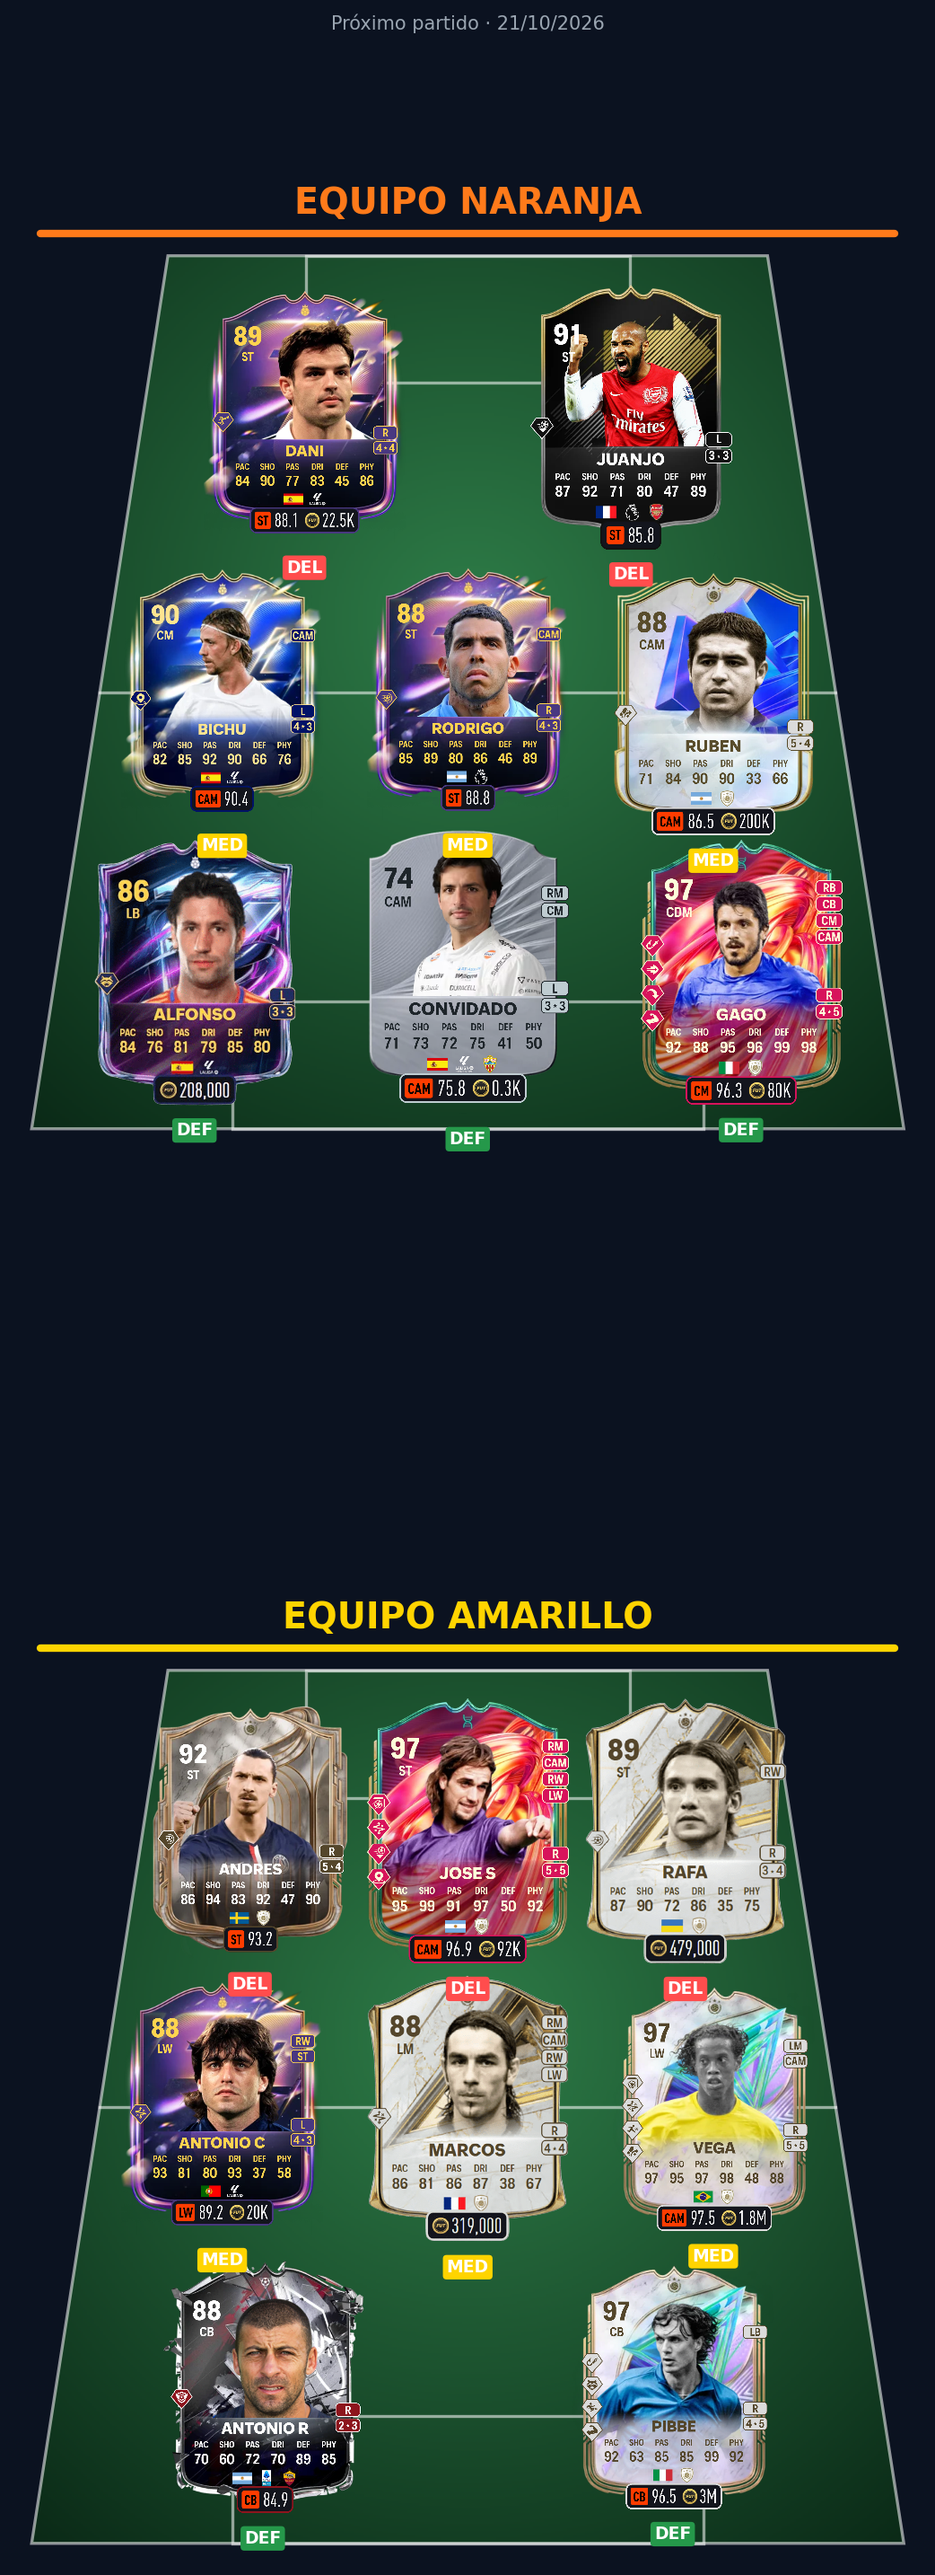
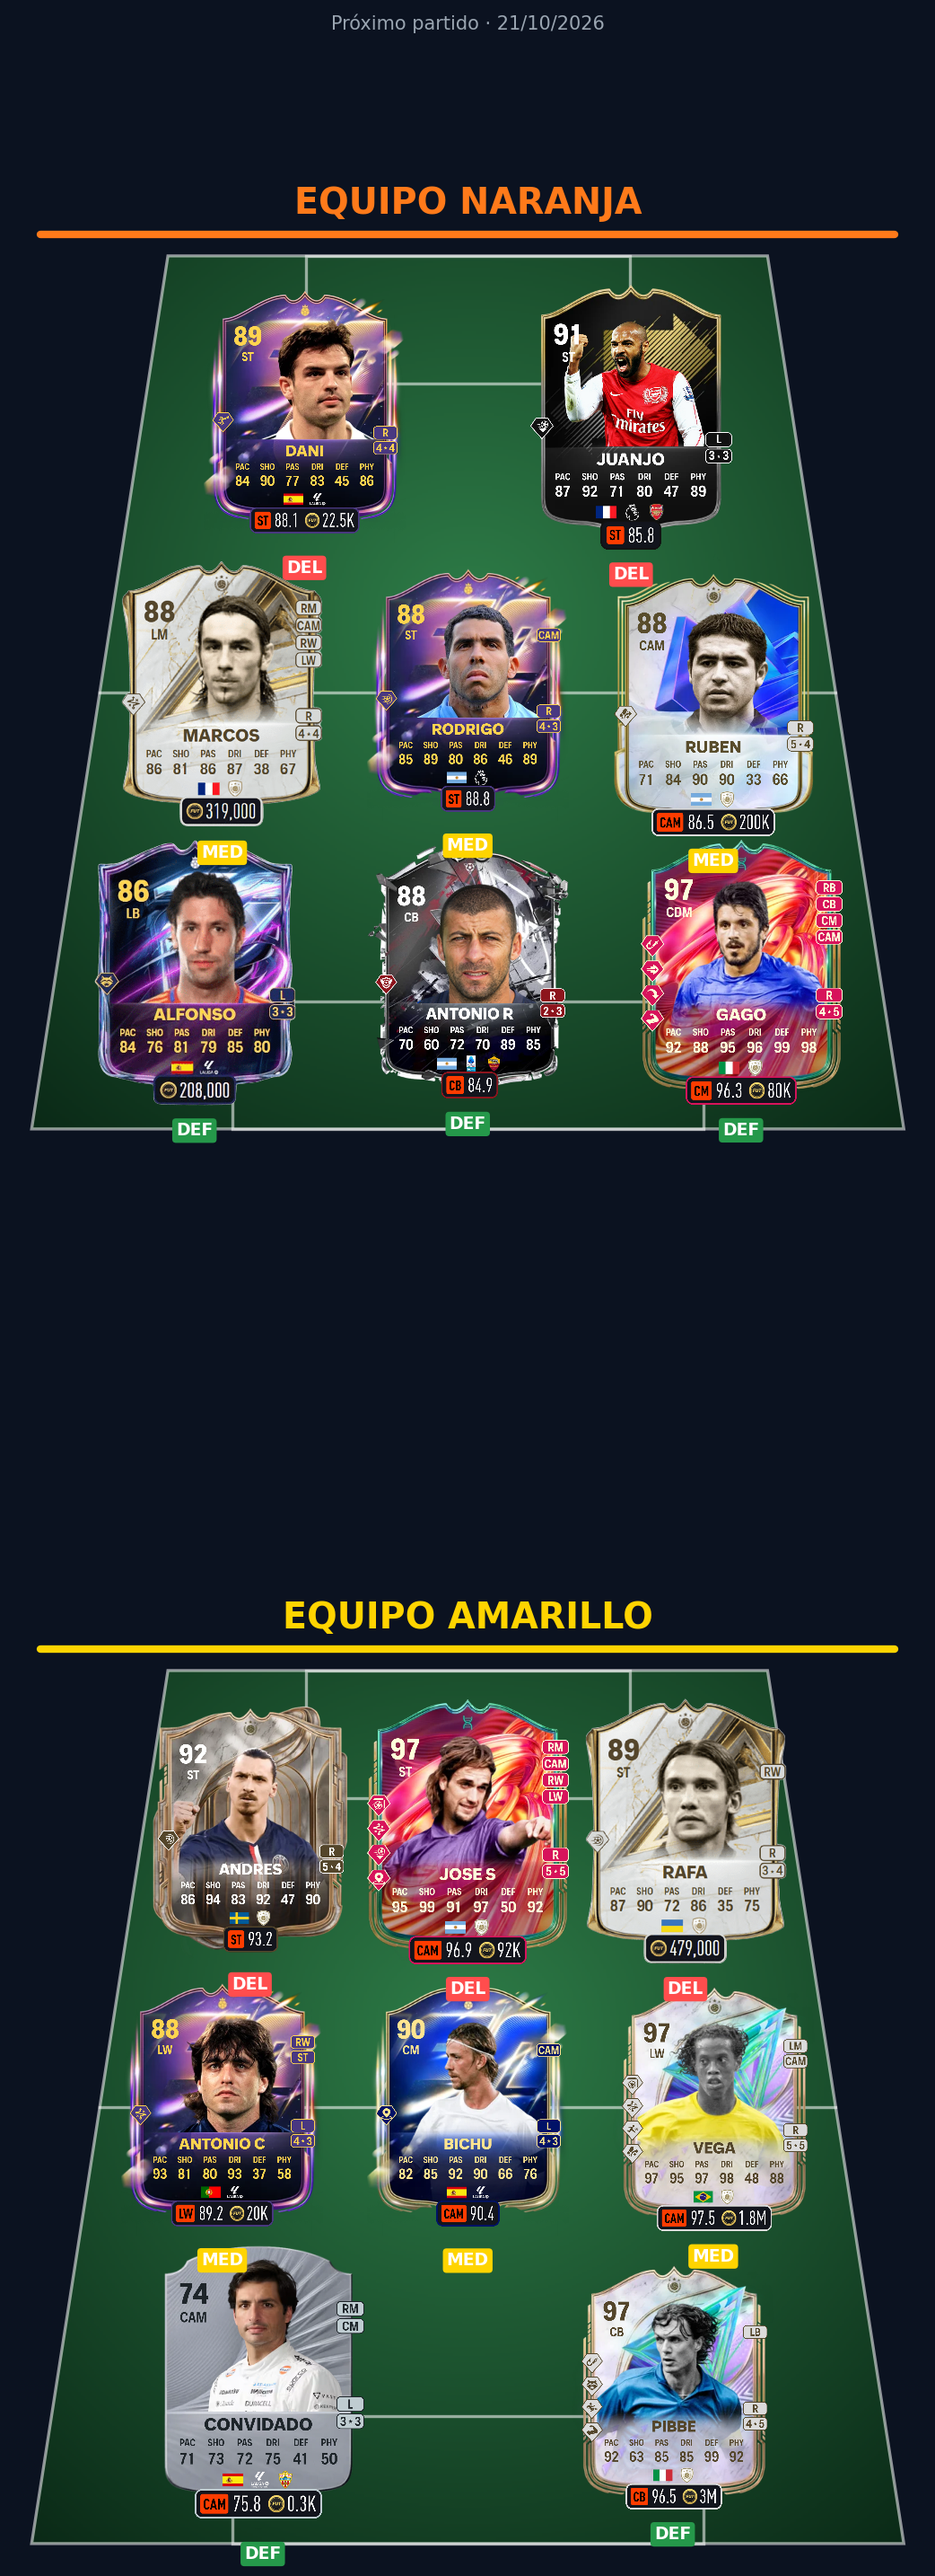
Actualizar resultados y estadisticas (21/10/2026 17:10)

diff --git a/index.html b/index.html
@@ -258,7 +258,7 @@
 <header>
   <img class="crest" src="img/escudo.png" alt="Escudo Peña QueSeFolme">
   <h1>Peña QueSeFolme</h1>
-  <p>Resultados y Estadísticas · Actualizado el 21/10/2026 17:07</p>
+  <p>Resultados y Estadísticas · Actualizado el 21/10/2026 17:10</p>
 </header>
 <nav>
   <a href="#proximo">🔜 Próximo partido</a>
@@ -274,8 +274,8 @@
     <p class="muted" style="text-align:center;">21/10/2026</p>
     <img src="img/proximo_partido.png" alt="Alineación del 21/10/2026" loading="lazy">
     <div class="scorers-row" style="margin-top:18px;">
-      <div><h3 style="color:var(--naranja);">Naranja</h3><ul class="scorers"><li>Alfonso <span class="muted">(DEF)</span></li><li>Bichu <span class="muted">(MED)</span></li><li>Convidado2 <span class="muted">(DEF)</span></li><li>Dani <span class="muted">(DEL)</span></li><li>Gago <span class="muted">(DEF)</span></li><li>Juanjo <span class="muted">(DEL)</span></li><li>Rodrigo <span class="muted">(MED)</span></li><li>Ruben <span class="muted">(MED)</span></li></ul></div>
-      <div><h3 style="color:var(--amarillo);">Amarillo</h3><ul class="scorers"><li>Andres <span class="muted">(DEL)</span></li><li>AntonioC <span class="muted">(MED)</span></li><li>AntonioR <span class="muted">(DEF)</span></li><li>JoseS <span class="muted">(DEL)</span></li><li>Marcos <span class="muted">(MED)</span></li><li>Pibbe <span class="muted">(DEF)</span></li><li>Rafa <span class="muted">(DEL)</span></li><li>Vega <span class="muted">(MED)</span></li></ul></div>
+      <div><h3 style="color:var(--naranja);">Naranja</h3><ul class="scorers"><li>Alfonso <span class="muted">(DEF)</span></li><li>AntonioR <span class="muted">(DEF)</span></li><li>Dani <span class="muted">(DEL)</span></li><li>Gago <span class="muted">(DEF)</span></li><li>Juanjo <span class="muted">(DEL)</span></li><li>Marcos <span class="muted">(MED)</span></li><li>Rodrigo <span class="muted">(MED)</span></li><li>Ruben <span class="muted">(MED)</span></li></ul></div>
+      <div><h3 style="color:var(--amarillo);">Amarillo</h3><ul class="scorers"><li>Andres <span class="muted">(DEL)</span></li><li>AntonioC <span class="muted">(MED)</span></li><li>Bichu <span class="muted">(MED)</span></li><li>Convidado2 <span class="muted">(DEF)</span></li><li>JoseS <span class="muted">(DEL)</span></li><li>Pibbe <span class="muted">(DEF)</span></li><li>Rafa <span class="muted">(DEL)</span></li><li>Vega <span class="muted">(MED)</span></li></ul></div>
     </div>
   </section>
   <section id="clasificacion">
